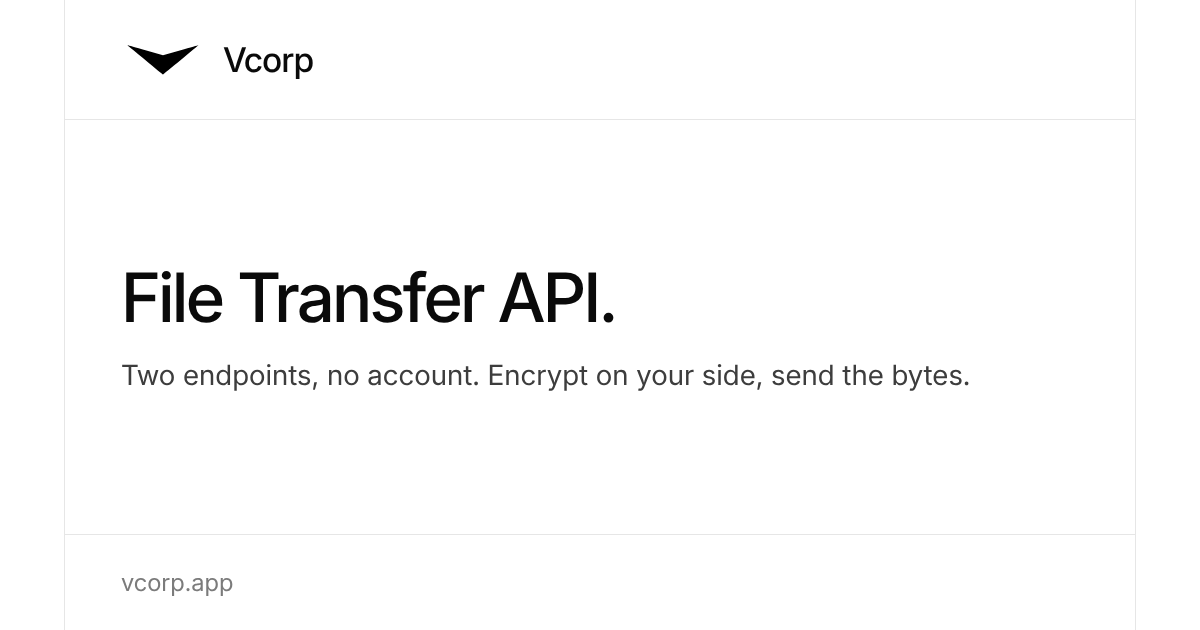
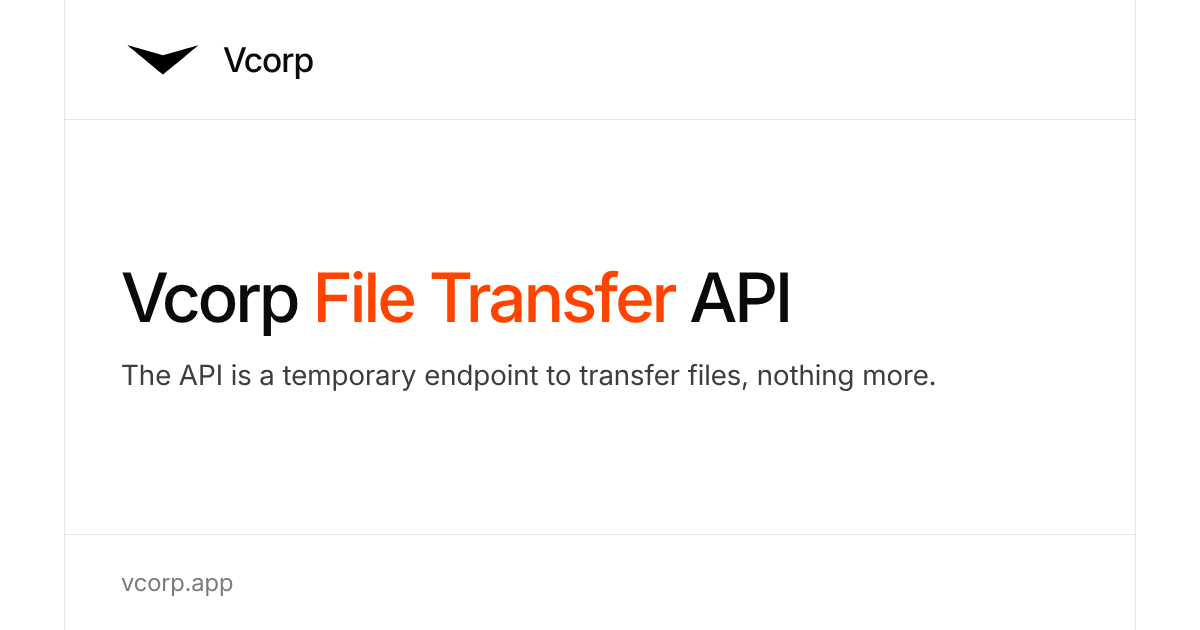
Preview images and alt text use the texts already on the pages

Changed region(s): [[0.0925, 0.4222, 0.6783, 0.5429], [0.0925, 0.573, 0.8017, 0.6333]]

diff --git a/index.html b/index.html
@@ -14,7 +14,7 @@
     <meta property="og:image" content="https://vcorp.app/og-file-transfer.png" />
     <meta property="og:image:width" content="1200" />
     <meta property="og:image:height" content="630" />
-    <meta property="og:image:alt" content="Vcorp: File Transfer for confidential work" />
+    <meta property="og:image:alt" content="Vcorp — File Transfer for confidential work" />
     <meta name="twitter:card" content="summary_large_image" />
     <meta name="theme-color" content="#ffffff" />
     <script type="application/ld+json">{"@context": "https://schema.org", "@type": "WebApplication", "name": "Vcorp File Transfer", "url": "https://vcorp.app/", "description": "Send a file only your recipient can open. Encrypted in your browser, destroyed after one download.", "applicationCategory": "SecurityApplication", "operatingSystem": "Any", "browserRequirements": "Requires JavaScript", "isAccessibleForFree": true, "offers": {"@type": "Offer", "price": "0", "priceCurrency": "USD"}, "publisher": {"@type": "Organization", "name": "Vcorp", "url": "https://vcorp.app/", "logo": "https://vcorp.app/icon-512.png", "email": "contact@vcorp.app"}}</script>
